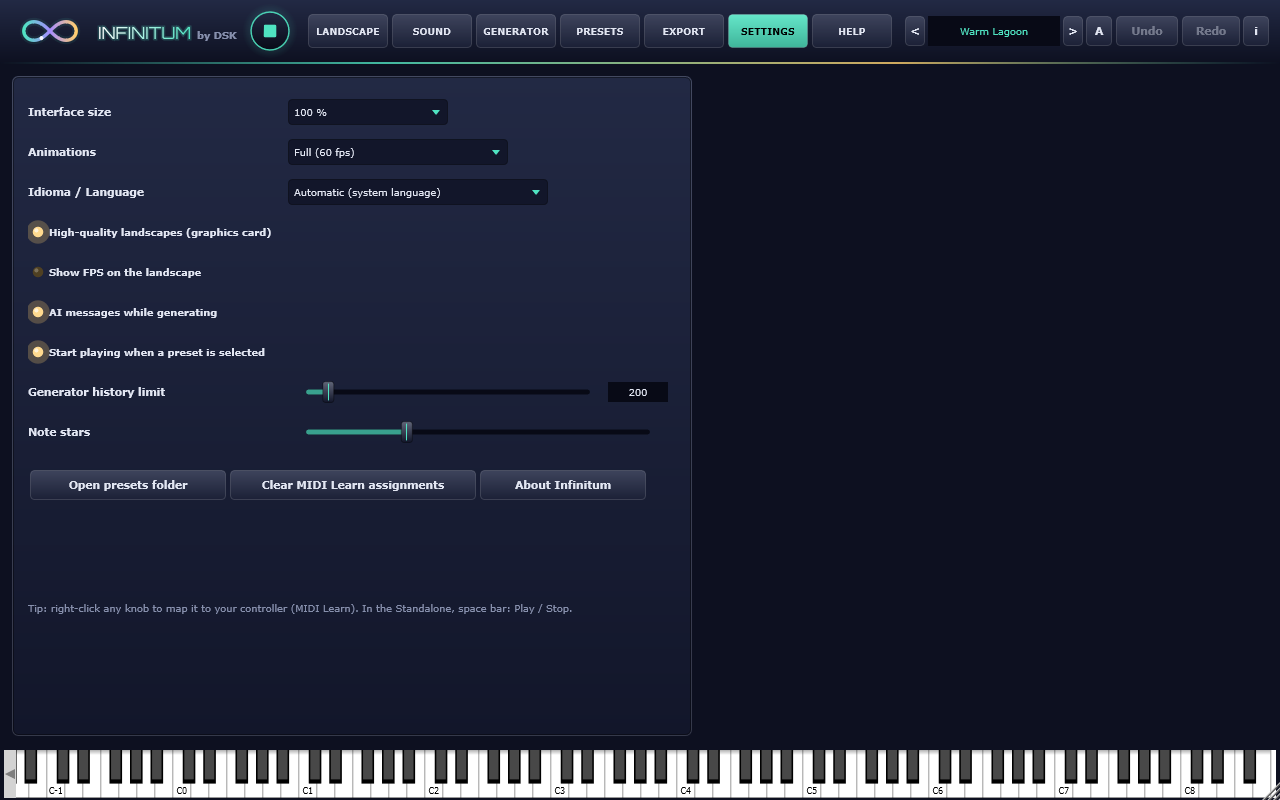
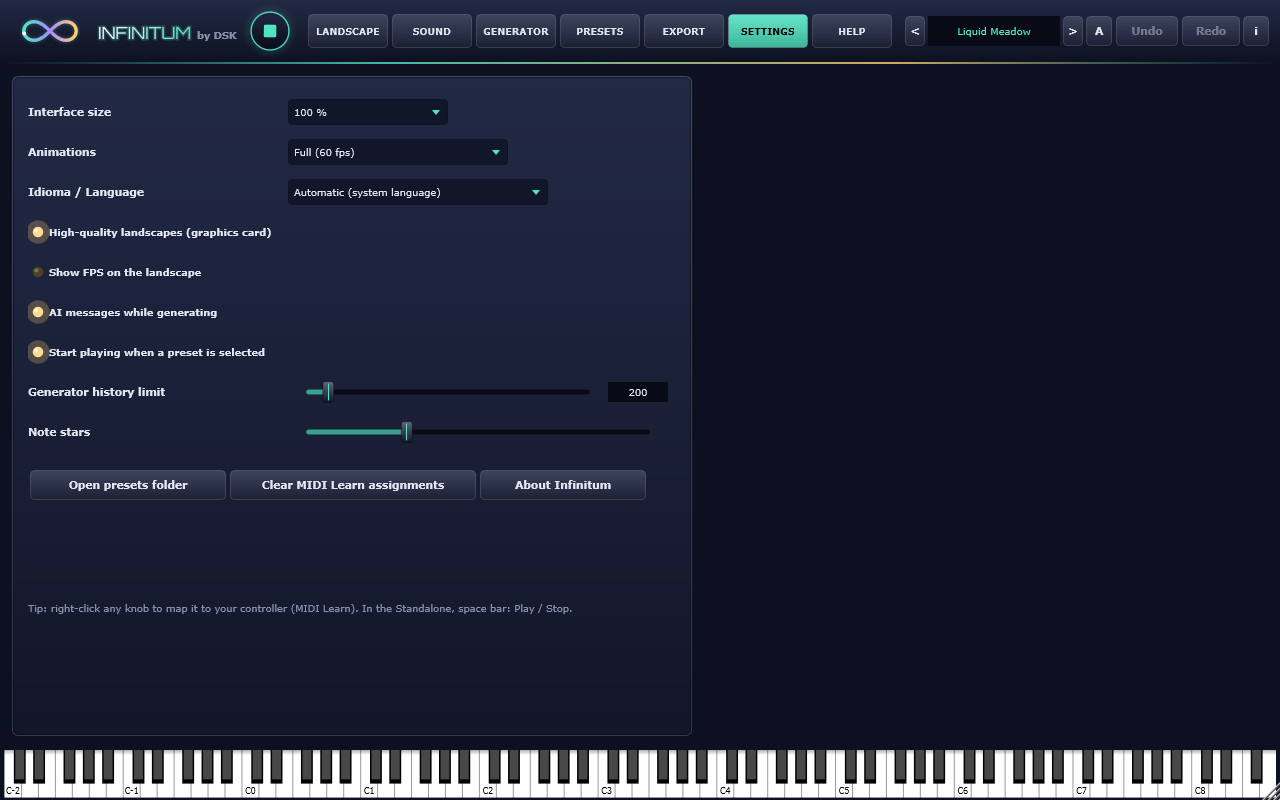
Natural Neon rain, landscape picture button, full-width keyboard, click-to-copy ffmpeg commands [skip ci]

Changed region(s): [[0.0, 0.9375, 1.0, 1.0], [0.75, 0.0312, 0.8125, 0.0625]]

diff --git a/src/ui/Landscape.cpp b/src/ui/Landscape.cpp
@@ -1,4 +1,5 @@
 #include "Visuals.h"
+#include "Pages.h"
 
 namespace gx::ui
 {
@@ -105,6 +106,30 @@ void softBlob (juce::Graphics& g, float x, float y, float rx, float ry, juce::Co
 Landscape::Landscape()
 {
     setInterceptsMouseClicks (true, true);   // children: the scene buttons
+    // small camera button (bottom-left): saves the landscape as a clean, branded picture
+    struct ShotButton : juce::Button
+    {
+        ShotButton() : juce::Button ("shot") { setMouseCursor (juce::MouseCursor::PointingHandCursor); setTooltip (L ("Guardar una captura del paisaje", "Save a picture of the landscape")); }
+        void paintButton (juce::Graphics& g, bool over, bool down) override
+        {
+            auto r = getLocalBounds().toFloat().reduced (1.0f);
+            g.setColour (juce::Colours::white.withAlpha (over ? 0.14f : 0.07f));
+            g.fillRoundedRectangle (r, 5.0f);
+            g.setColour (juce::Colours::white.withAlpha (over ? 0.35f : 0.18f));
+            g.drawRoundedRectangle (r, 5.0f, 1.0f);
+            const auto c = over ? col::accent : juce::Colours::white.withAlpha (0.7f);
+            auto body = r.reduced (r.getWidth() * 0.22f, r.getHeight() * 0.27f).translated (0, 1.0f + (down ? 0.5f : 0.0f));
+            juce::Path p;
+            p.addRoundedRectangle (body, 2.0f);
+            g.setColour (c);
+            g.strokePath (p, juce::PathStrokeType (1.2f));
+            g.drawLine (body.getX() + body.getWidth() * 0.3f, body.getY() - 1.6f, body.getX() + body.getWidth() * 0.55f, body.getY() - 1.6f, 1.2f);
+            g.drawEllipse (juce::Rectangle<float> (body.getHeight() * 0.62f, body.getHeight() * 0.62f).withCentre (body.getCentre()), 1.2f);
+        }
+    };
+    shotButton = std::make_unique<ShotButton>();
+    shotButton->onClick = [this] { takeScreenshot(); };
+    addChildComponent (*shotButton);
     for (size_t i = 0; i < stars.size(); ++i)
     {
         stars[i] = { rng.nextFloat(), rng.nextFloat() };
@@ -349,10 +374,95 @@ void Landscape::paint (juce::Graphics& g)
     paintFps (g, b);
 }
 
+void Landscape::resized()
+{
+    cacheKey = {};
+}
+
+void Landscape::takeScreenshot()
+{
+    const float k = 2.0f;   // twice the on-screen size
+    const int W = juce::roundToInt ((float) getWidth() * k), H = juce::roundToInt ((float) getHeight() * k);
+    if (W < 10 || H < 10) return;
+    juce::Image bg;
+    if (glOk.load())
+    {
+        bg = OffscreenGpu::get().render (uniforms(), W, H);
+        if (! bg.isValid()) { shotMsg = L ("No se pudo hacer la captura", "The picture could not be taken"); shotMsgAt = juce::Time::getMillisecondCounterHiRes() * 0.001; return; }
+    }
+    // the bare landscape: no texts, no buttons, square corners
+    const bool ov = showOverlay, fb = fullBleed;
+    const auto oldExt = external;
+    showOverlay = false; fullBleed = true;
+    if (bg.isValid()) external = bg;
+    std::vector<juce::Component*> hidden;
+    for (auto* c : getChildren()) if (c->isVisible()) { c->setVisible (false); hidden.push_back (c); }
+    juce::Image img = createComponentSnapshot (getLocalBounds(), true, k).convertedToFormat (juce::Image::RGB);
+    for (auto* c : hidden) c->setVisible (true);
+    showOverlay = ov; fullBleed = fb; external = oldExt;
+
+    {   // branding: logo + name top-right (as in the header), credit at the foot
+        juce::Graphics g (img);
+        const float s = (float) W / 1280.0f;
+        juce::GlyphArrangement ga;
+        ga.addLineOfText (techFont (21.0f * s), "INFINITUM", 0, 0);
+        juce::Path text;
+        ga.createPath (text);
+        auto tb = text.getBounds();
+        g.setFont (font (12.0f * s, true));
+        const float byW = juce::GlyphArrangement::getStringWidth (g.getCurrentFont(), "by DSK");
+        const float margin = 22.0f * s, markW = 30.0f * s * 1.6f;
+        const float textX = (float) W - margin - byW - 7.0f * s - tb.getWidth();
+        const float baseY = margin + 22.0f * s;
+        text.applyTransform (juce::AffineTransform::translation (textX - tb.getX(), baseY));
+        tb = text.getBounds();
+        Logo::drawMark (g, juce::Rectangle<float> (tb.getX() - 8.0f * s - markW, tb.getCentreY() - 15.0f * s, markW, 30.0f * s).reduced (4.0f * s, 5.0f * s), 0.6f, 0.2f);
+        g.setColour (juce::Colours::black.withAlpha (0.35f));
+        g.fillPath (text, juce::AffineTransform::translation (0, 1.5f * s));
+        g.setColour (col::accent.withAlpha (0.3f));
+        g.strokePath (text, juce::PathStrokeType (3.0f * s));
+        juce::ColourGradient grad (juce::Colours::white, tb.getX(), tb.getY(), col::accent, tb.getRight(), tb.getBottom(), false);
+        g.setGradientFill (grad);
+        g.fillPath (text);
+        g.setColour (juce::Colours::white.withAlpha (0.7f));
+        g.drawText ("by DSK", juce::Rectangle<float> (tb.getRight() + 7.0f * s, tb.getBottom() - 14.0f * s, byW + 4.0f, 16.0f * s), juce::Justification::bottomLeft);
+        // credit
+        g.setFont (techFont (10.5f * s));
+        const juce::String credit = "Infinitum by DSK  -  www.dskmusic.com/infinitum";
+        auto foot = juce::Rectangle<float> (0, (float) H - 34.0f * s, (float) W, 20.0f * s);
+        g.setColour (juce::Colours::black.withAlpha (0.4f));
+        g.drawText (credit, foot.translated (0, 1.2f * s), juce::Justification::centred);
+        g.setColour (juce::Colours::white.withAlpha (0.75f));
+        g.drawText (credit, foot, juce::Justification::centred);
+    }
+    auto dir = juce::File::getSpecialLocation (juce::File::userPicturesDirectory).getChildFile ("Infinitum");
+    dir.createDirectory();
+    auto file = dir.getNonexistentChildFile ("Infinitum " + juce::Time::getCurrentTime().formatted ("%Y-%m-%d %H-%M-%S"), ".png");
+    bool ok = false;
+    if (auto out = file.createOutputStream()) { juce::PNGImageFormat png; ok = png.writeImageToStream (img, *out); }
+    shotMsg = ok ? L ("Captura guardada en Imágenes\\Infinitum", "Picture saved to Pictures\\Infinitum") : L ("No se pudo guardar la captura", "The picture could not be saved");
+    shotMsgAt = juce::Time::getMillisecondCounterHiRes() * 0.001;
+    lastShot = ok ? file : juce::File();
+    repaint();
+}
+
 void Landscape::paintFps (juce::Graphics& g, juce::Rectangle<float> b)
 {
+    if (shotButton != nullptr)   // placed here, not in resized(): full screen / page mode can change without a resize
+    {
+        shotButton->setBounds (12, getHeight() - (fullBleed ? 34 : 58), 26, 20);
+        shotButton->setVisible (showOverlay && ! external.isValid());
+    }
+    const double age = juce::Time::getMillisecondCounterHiRes() * 0.001 - shotMsgAt;
+    if (age < 3.0 && ! external.isValid())
+    {
+        g.setColour (juce::Colours::white.withAlpha (0.85f * (float) juce::jmin (1.0, (3.0 - age) * 2.0)));
+        g.setFont (font (11.5f, true));
+        g.drawText (shotMsg, juce::Rectangle<float> (b.getX() + 44.0f, b.getBottom() - (fullBleed ? 34.0f : 58.0f), 400.0f, 20.0f), juce::Justification::centredLeft);
+        return;
+    }
     if (! showFps() || external.isValid()) return;   // never in exported videos or screenshots
-    const auto r = juce::Rectangle<float> (b.getX() + 14.0f, b.getBottom() - (fullBleed ? 26.0f : 50.0f), 70.0f, 16.0f);
+    const auto r = juce::Rectangle<float> (b.getX() + 44.0f, b.getBottom() - (fullBleed ? 32.0f : 56.0f), 80.0f, 16.0f);
     g.setColour (juce::Colours::white.withAlpha (0.45f));
     g.setFont (juce::FontOptions (11.0f));
     g.drawText (juce::String (juce::roundToInt (fps)) + " FPS" + (glOk.load() ? " GPU" : ""), r, juce::Justification::centredLeft);

diff --git a/src/ui/VideoExport.cpp b/src/ui/VideoExport.cpp
@@ -75,6 +75,56 @@ juce::String ffmpegInstructions()
               "You can also download it from https://ffmpeg.org/download.html and pick the executable with \"Choose ffmpeg...\".");
 }
 
+void showFfmpegHelp()
+{
+    struct Commands : juce::Component
+    {
+        juce::OwnedArray<juce::TextButton> buttons;
+        juce::Label status;
+        Commands()
+        {
+            const juce::String sys[] { "Windows", "macOS (Homebrew)", "Linux" };
+            const juce::String cmd[] { "winget install Gyan.FFmpeg", "brew install ffmpeg", "sudo apt install ffmpeg" };
+            for (int i = 0; i < 3; ++i)
+            {
+                auto* b = buttons.add (new juce::TextButton (sys[i] + ":   " + cmd[i]));
+                b->setTooltip (L ("Clic para copiar el comando", "Click to copy the command"));
+                const auto c = cmd[i];
+                b->onClick = [this, c]
+                {
+                    juce::SystemClipboard::copyTextToClipboard (c);
+                    status.setText (L ("Copiado al portapapeles: ", "Copied to the clipboard: ") + c, juce::dontSendNotification);
+                };
+                addAndMakeVisible (b);
+            }
+            status.setJustificationType (juce::Justification::centred);
+            status.setColour (juce::Label::textColourId, col::accent);
+            addAndMakeVisible (status);
+            setSize (440, 3 * 36 + 26);
+        }
+        void resized() override
+        {
+            auto r = getLocalBounds();
+            for (auto* b : buttons) b->setBounds (r.removeFromTop (36).reduced (0, 4));
+            status.setBounds (r);
+        }
+    };
+    struct Help : juce::AlertWindow
+    {
+        Commands commands;
+        Help() : juce::AlertWindow ("ffmpeg", L ("Para exportar vídeo, Infinitum usa ffmpeg (gratuito). Abre una terminal y escribe el comando de tu sistema (clic en él para copiarlo):",
+                                                 "To export video, Infinitum uses ffmpeg (free). Open a terminal and type the command for your system (click it to copy it):"),
+                                     juce::MessageBoxIconType::InfoIcon)
+        {
+            addCustomComponent (&commands);
+            addTextBlock (L ("También puedes descargarlo de https://ffmpeg.org/download.html y elegir el ejecutable con el botón «Elegir ffmpeg…».",
+                             "You can also download it from https://ffmpeg.org/download.html and pick the executable with \"Choose ffmpeg...\"."));
+            addButton ("OK", 1, juce::KeyPress (juce::KeyPress::returnKey));
+        }
+    };
+    (new Help())->enterModalState (true, nullptr, true);
+}
+
 // ---------------------------------------------------------------- pipe (no console window)
 bool VideoExporter::Pipe::open (const juce::StringArray& args)
 {

diff --git a/src/ui/MiscPages.cpp b/src/ui/MiscPages.cpp
@@ -321,14 +321,14 @@ void ExportPage::installFfmpeg()
     const auto cmd = ffmpegInstallCommand();
     if (cmd.isEmpty() || installer != nullptr)
     {
-        juce::AlertWindow::showMessageBoxAsync (juce::MessageBoxIconType::InfoIcon, "ffmpeg", ffmpegInstructions());
+        showFfmpegHelp();
         return;
     }
     installer = std::make_unique<juce::ChildProcess>();
     if (! installer->start (cmd))
     {
         installer.reset();
-        juce::AlertWindow::showMessageBoxAsync (juce::MessageBoxIconType::InfoIcon, "ffmpeg", ffmpegInstructions());
+        showFfmpegHelp();
         return;
     }
     videoStatus = L ("Instalando ffmpeg… (puede tardar un par de minutos)", "Installing ffmpeg… (this can take a couple of minutes)");
@@ -341,7 +341,7 @@ void ExportPage::startVideo()
 {
     if (video.running() || busy.load()) return;
     updateFfmpegStatus();
-    if (! ffmpeg.existsAsFile()) { juce::AlertWindow::showMessageBoxAsync (juce::MessageBoxIconType::InfoIcon, "ffmpeg", ffmpegInstructions()); return; }
+    if (! ffmpeg.existsAsFile()) { showFfmpegHelp(); return; }
     const auto name = ctx.proc.currentMeta.name.isNotEmpty() ? ctx.proc.currentMeta.name : juce::String ("Infinitum");
     const auto def = juce::File::getSpecialLocation (juce::File::userMoviesDirectory)
                          .getChildFile (juce::File::createLegalFileName (name + " - " + juce::String (vDuration.getSelectedId()) + " min.mp4"));
@@ -366,7 +366,7 @@ void ExportPage::startVideo()
         if (vScene.getSelectedId() >= 2) pr.params[(size_t) P::scene] = (float) (vScene.getSelectedId() - 2);
         if (! video.start (pr, videoTarget, vDuration.getSelectedId() * 60.0, hgt == 720 ? 1280 : 1920, hgt, ffmpeg, err, ctx.settings.gpu()))
         {
-            juce::AlertWindow::showMessageBoxAsync (juce::MessageBoxIconType::InfoIcon, "ffmpeg", ffmpegInstructions());
+            showFfmpegHelp();
             return;
         }
         videoStart = juce::Time::getMillisecondCounterHiRes() * 0.001;
@@ -421,7 +421,7 @@ void ExportPage::timerCallback()
         installer.reset();
         ffmpegInstall.setEnabled (true);
         updateFfmpegStatus();
-        if (! ffmpeg.existsAsFile()) juce::AlertWindow::showMessageBoxAsync (juce::MessageBoxIconType::InfoIcon, "ffmpeg", ffmpegInstructions());
+        if (! ffmpeg.existsAsFile()) showFfmpegHelp();
         else if (ctx.toast) ctx.toast (L ("ffmpeg instalado: ya puedes exportar vídeo", "ffmpeg installed: you can export video now"));
     }
     if (video.running())

diff --git a/src/ui/GpuScenes.cpp b/src/ui/GpuScenes.cpp
@@ -448,10 +448,21 @@ vec3 scene (vec2 uv)
         col = vec3 (0.01, 0.012, 0.02) + ga * 0.45 + b.rgb * 0.15 + glowC * 0.08;
     }
     // rain
-    vec2 rp = vec2 (p.x * 90.0 + uv.y * 14.0, uv.y * 2.5 + uTime * 5.5);
-    vec2 rid = floor (rp), rf = fract (rp);
-    float drop = step (0.9, hash12 (rid)) * smoothstep (0.08, 0.0, abs (rf.x - 0.5)) * smoothstep (0.0, 0.7, rf.y) * smoothstep (1.0, 0.8, rf.y);
-    col += vec3 (0.6, 0.72, 1.0) * drop * (0.18 + 0.2 * uPres[4]);
+    for (int l = 0; l < 3; l++)   // far (fine, slow) to near (thicker, fast); every column has its own speed and phase
+    {
+        float fl = float (l);
+        float cols = 150.0 - 40.0 * fl;
+        float cx = p.x * cols + uv.y * (5.0 + 3.0 * fl);              // slight slant
+        float cid = floor (cx), fx = fract (cx);
+        float h1 = hash12 (vec2 (cid, 3.0 + fl)), h2 = hash12 (vec2 (cid, 7.0 + fl));
+        float rate = (0.9 + 0.8 * h1) * (0.8 + 0.45 * fl);           // screen heights per second
+        float tt = uv.y * (2.0 + h2) + uTime * rate * (2.0 + h2) + h2 * 17.0;
+        float did = floor (tt), fy = fract (tt);
+        float len = 0.16 + 0.12 * fl;
+        float exists = step (0.62 - 0.08 * uPres[4], hash12 (vec2 (cid + 0.37, did + fl * 31.0)));
+        float streak = exists * smoothstep (0.09 + 0.05 * fl, 0.0, abs (fx - 0.5)) * step (fy, len) * (1.0 - fy / len);
+        col += vec3 (0.6, 0.72, 1.0) * streak * (0.1 + 0.07 * fl) * (0.7 + 0.6 * uPres[4]);
+    }
     // low fog (Wind)
     col = mix (col, glowC * 0.55, uPres[4] * 0.35 * smoothstep (0.35, 0.0, uv.y) * fbm3 (vec2 (p.x * 2.0 - uMus * 0.02, uv.y * 4.0)));
     return col;

diff --git a/src/ui/Visuals.h b/src/ui/Visuals.h
@@ -93,7 +93,8 @@ public:
     SceneUniforms uniforms() const;
     void tick (const Frame&) override;
     void paint (juce::Graphics&) override;
-    void resized() override { cacheKey = {}; }
+    void resized() override;
+    void takeScreenshot();
     bool showOverlay = true;                 // chord / key / clock texts
     bool fullBleed = false;                  // no rounded corners (full screen, video)
     std::function<void()> onClick;
@@ -140,6 +141,9 @@ private:
     std::atomic<int> framesDrawn { 0 };
     double fpsT0 = 0; float fps = 0;
     void paintFps (juce::Graphics&, juce::Rectangle<float>);
+    std::unique_ptr<juce::Button> shotButton;
+    juce::String shotMsg; double shotMsgAt = -100;
+    juce::File lastShot;
     juce::SpinLock ulock;
     SceneUniforms uni;
     juce::Image external;

diff --git a/src/PluginEditor.cpp b/src/PluginEditor.cpp
@@ -141,6 +141,8 @@ void InfinitumEditor::resized()
     auto r = root.getLocalBounds();
     header->setBounds (r.removeFromTop (64));
     keyboard.setBounds (r.removeFromBottom (52).reduced (4, 2));
+    keyboard.setScrollButtonsVisible (false);
+    keyboard.setKeyWidth ((float) keyboard.getWidth() / 75.0f);   // all 75 white keys (MIDI 0-127) always fill the width
     for (auto* pg : pages) pg->setBounds (r);
     about->setBounds (root.getLocalBounds());
     toastLabel.setBounds (root.getLocalBounds().withSizeKeepingCentre (560, 34).withY (root.getHeight() - 110));

diff --git a/src/ui/VideoExport.h b/src/ui/VideoExport.h
@@ -8,6 +8,7 @@ namespace gx::ui
 juce::File findFfmpeg (Settings& settings);
 juce::String ffmpegInstallCommand();          // empty if no package manager is available
 juce::String ffmpegInstructions();            // localized, human-readable
+void showFfmpegHelp();                        // the same, with one click-to-copy button per system
 
 // Renders the landscape of a preset to an MP4 (H.264 + AAC) by piping raw frames straight into ffmpeg.
 // Runs on the message thread in small slices (call step() from a timer). The audio is rendered first.
